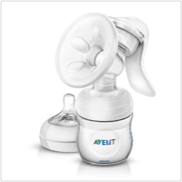
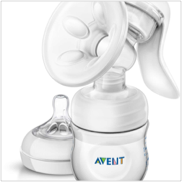
Add design to article-details page and set router to /article-details

diff --git a/client/src/pages/ArticleDetail.js b/client/src/pages/ArticleDetail.js
@@ -1,9 +1,61 @@
 import React from "react";
+import styled from "@emotion/styled";
+import MainImage from "../assets/philips-avent-pump.png";
+import ItemStatusAvailable from "../assets/download.svg";
+
+const Slider = styled.div`
+  display: flex;
+  padding: 20px 0;
+  margin: 0;
+`;
+
+const Image = styled.img`
+  min-width: 180px;
+  min-height: 180px;
+  align-self: center;
+`;
+
+const Container = styled.div`
+  min-width: 90%;
+`;
+
+const Status = styled.div`
+  display: flex;
+  justify-content: flex-start;
+  padding: 20px 0;
+`;
+
+const StatusIcon = styled.img`
+  min-width: 15px;
+  min-height: 15px;
+  padding-right: 10px;
+`;
+
+const StatusText = styled.span`
+  color: #28beb4;
+`;
+
+const Header = styled.div`
+  font-weight: bold;
+  font-size: 1.2rem;
+  padding-bottom: 14px;
+`;
 
 function ArticleDetail() {
   return (
     <>
-      <div>hallo</div>
+      <Slider>
+        <Image src={MainImage} alt="milk-pump" />
+        <Image src={MainImage} alt="milk-pump" />
+      </Slider>
+      <Container>
+        <Status>
+          <StatusIcon src={ItemStatusAvailable} alt="status" />
+          <StatusText>Auf Lager</StatusText>
+        </Status>
+        <Header>Philips AVENT Komfort-Milchpumpe</Header>
+        <serialNo>8710103565840</serialNo>
+      </Container>
     </>
   );
 }

diff --git a/client/src/App.js b/client/src/App.js
@@ -21,16 +21,16 @@ function App() {
       <GlobalStyles />
       <Router>
         <Header />
-        <Switch>
-          <Main>
+        <Main>
+          <Switch>
             <Route path="/article-detail">
               <ArticleDetail />
             </Route>
             <Route path="/">
               <List />
             </Route>
-          </Main>
-        </Switch>
+          </Switch>
+        </Main>
         <Footer />
       </Router>
     </>

diff --git a/client/src/GlobalStyles.js b/client/src/GlobalStyles.js
@@ -23,6 +23,7 @@ const GlobalCSS = () => {
           margin: 0;
           background-color: #f6f6f6;
           overflow: auto;
+          font-size: 1rem;
         }
 
         h1 {
